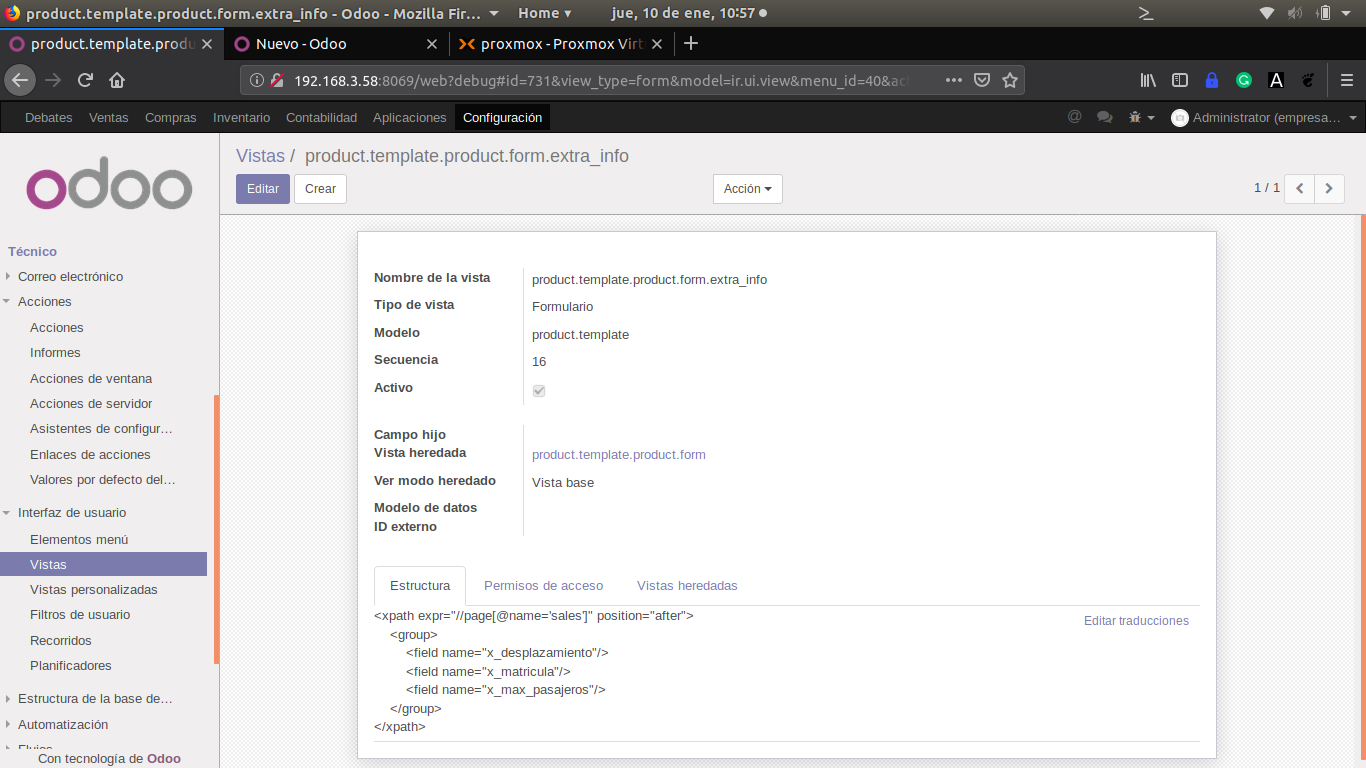
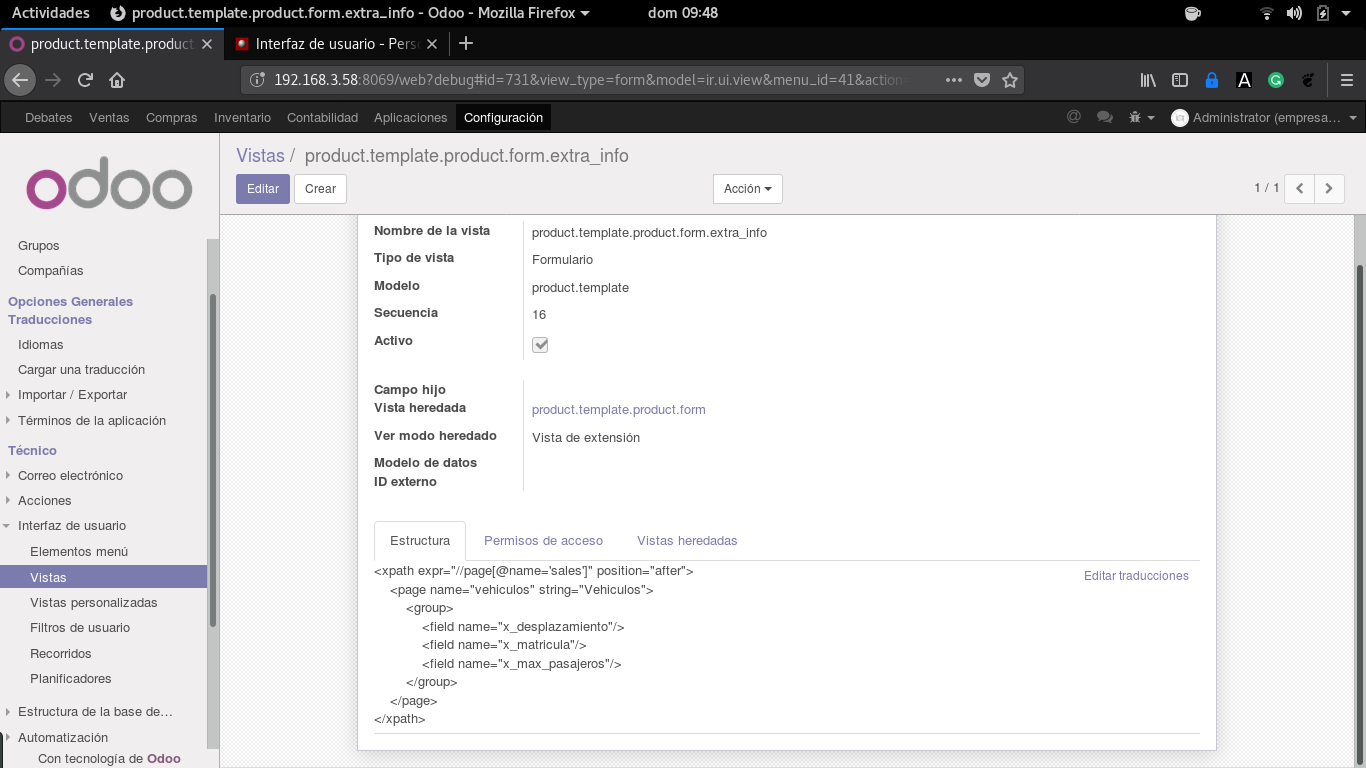
...

diff --git a/Ud_4/Unidad_4.md b/Ud_4/Unidad_4.md
@@ -5,6 +5,8 @@
 
 * [Crear nueva empresa](#id1)
 * [Modificar modelo de datos](#id2)
+* [Modificar vista](#id3)
+* [Crear vista heredada](#id4)
 
 # Contenido
 
@@ -21,6 +23,7 @@ Seguir los pasos de la Unidad 3 para:
   * Contabilidad y finanzas
 
 [**Indice**](#indice)
+
 
 ## Modificar modelo de datos<a name="id2"/>
 
@@ -48,33 +51,61 @@ Para los objetos que creemos nosotros nombrarlos con x_nombreobjeto.
 
 [**Indice**](#indice)
 
-## Modificar vista
 
-Estando en la vista que queremos modificar pulsar el botón con forma de escarabajo que hay en la barra superior.
+## Modificar vista<a name="id3"/>
+
+Estando en la vista que queremos modificar pulsar el botón con forma de escarabajo que hay en la barra superior ('Herramientas del desarollador').
 
 ![Captura de pantalla 5][img5]
 
 En este caso pulsamos la opción 'Editar formVer'.
+
+`Esta opcion variará sugún el tipo de vista que queramos editar`
 
 ![Captura de pantalla 6][img6]
 
 Si en el campo heredar hay otra vista tener cuidado porque a lo mejor queremos modificar esa.
 Para ello pulsar el botón que aparece junto al nombre y nos lleva a la vista padre (es la vista padre si no hereda de ninguna otra).
 
-* Opción 1: Sobre el formulario de producto original
 ![Captura de pantalla 7][img7]
 
-* Opción 2: Creando una nueva vista que herede de la original
+
+## Crear vista heredada<a name="id4"/>
+
+1. Obtener información de la vista padre
+
+    Vamos a la vista de la cual queremos que herede la nueva vista que vamos a crear.
+
+![Captura de pantalla 11][img11]
+
+`Herramientas del desarollador > Editar FormVer`
+
+![Captura de pantalla 12][img12]
+
+
+2. Definir la nueva vista:
+
+    `Editar > Vistas Heredadas > Añadir un elemento`
 
 ![Captura de pantalla 8][img8]
 
-Modificar la acción de ventana para que nos lleve a la vista que hemos creado.
+3. Modificar la acción de ventana para que nos lleve a la vista que hemos creado.
 
   `Configuración > Técnico > Acciones > Acciones de ventana`
 
 Elegir la acción a la que se llama para abrir esa vista y pulsar en ella.
 
 ![Captura de pantalla 9][img9]
+
+Pulsar el botón 'Editar'.
+
+![Captura de pantalla 10][img10]
+
+`Opciones generales > Vistas > Ref. vista`
+
+Rellenar con el nombre de la vista que hemos creado.
+
+Puede aparecer vacío si inicialmente la acción de ventana dirige hacia una vista por defecto.
 
 ## Crear modelo de datos
 
